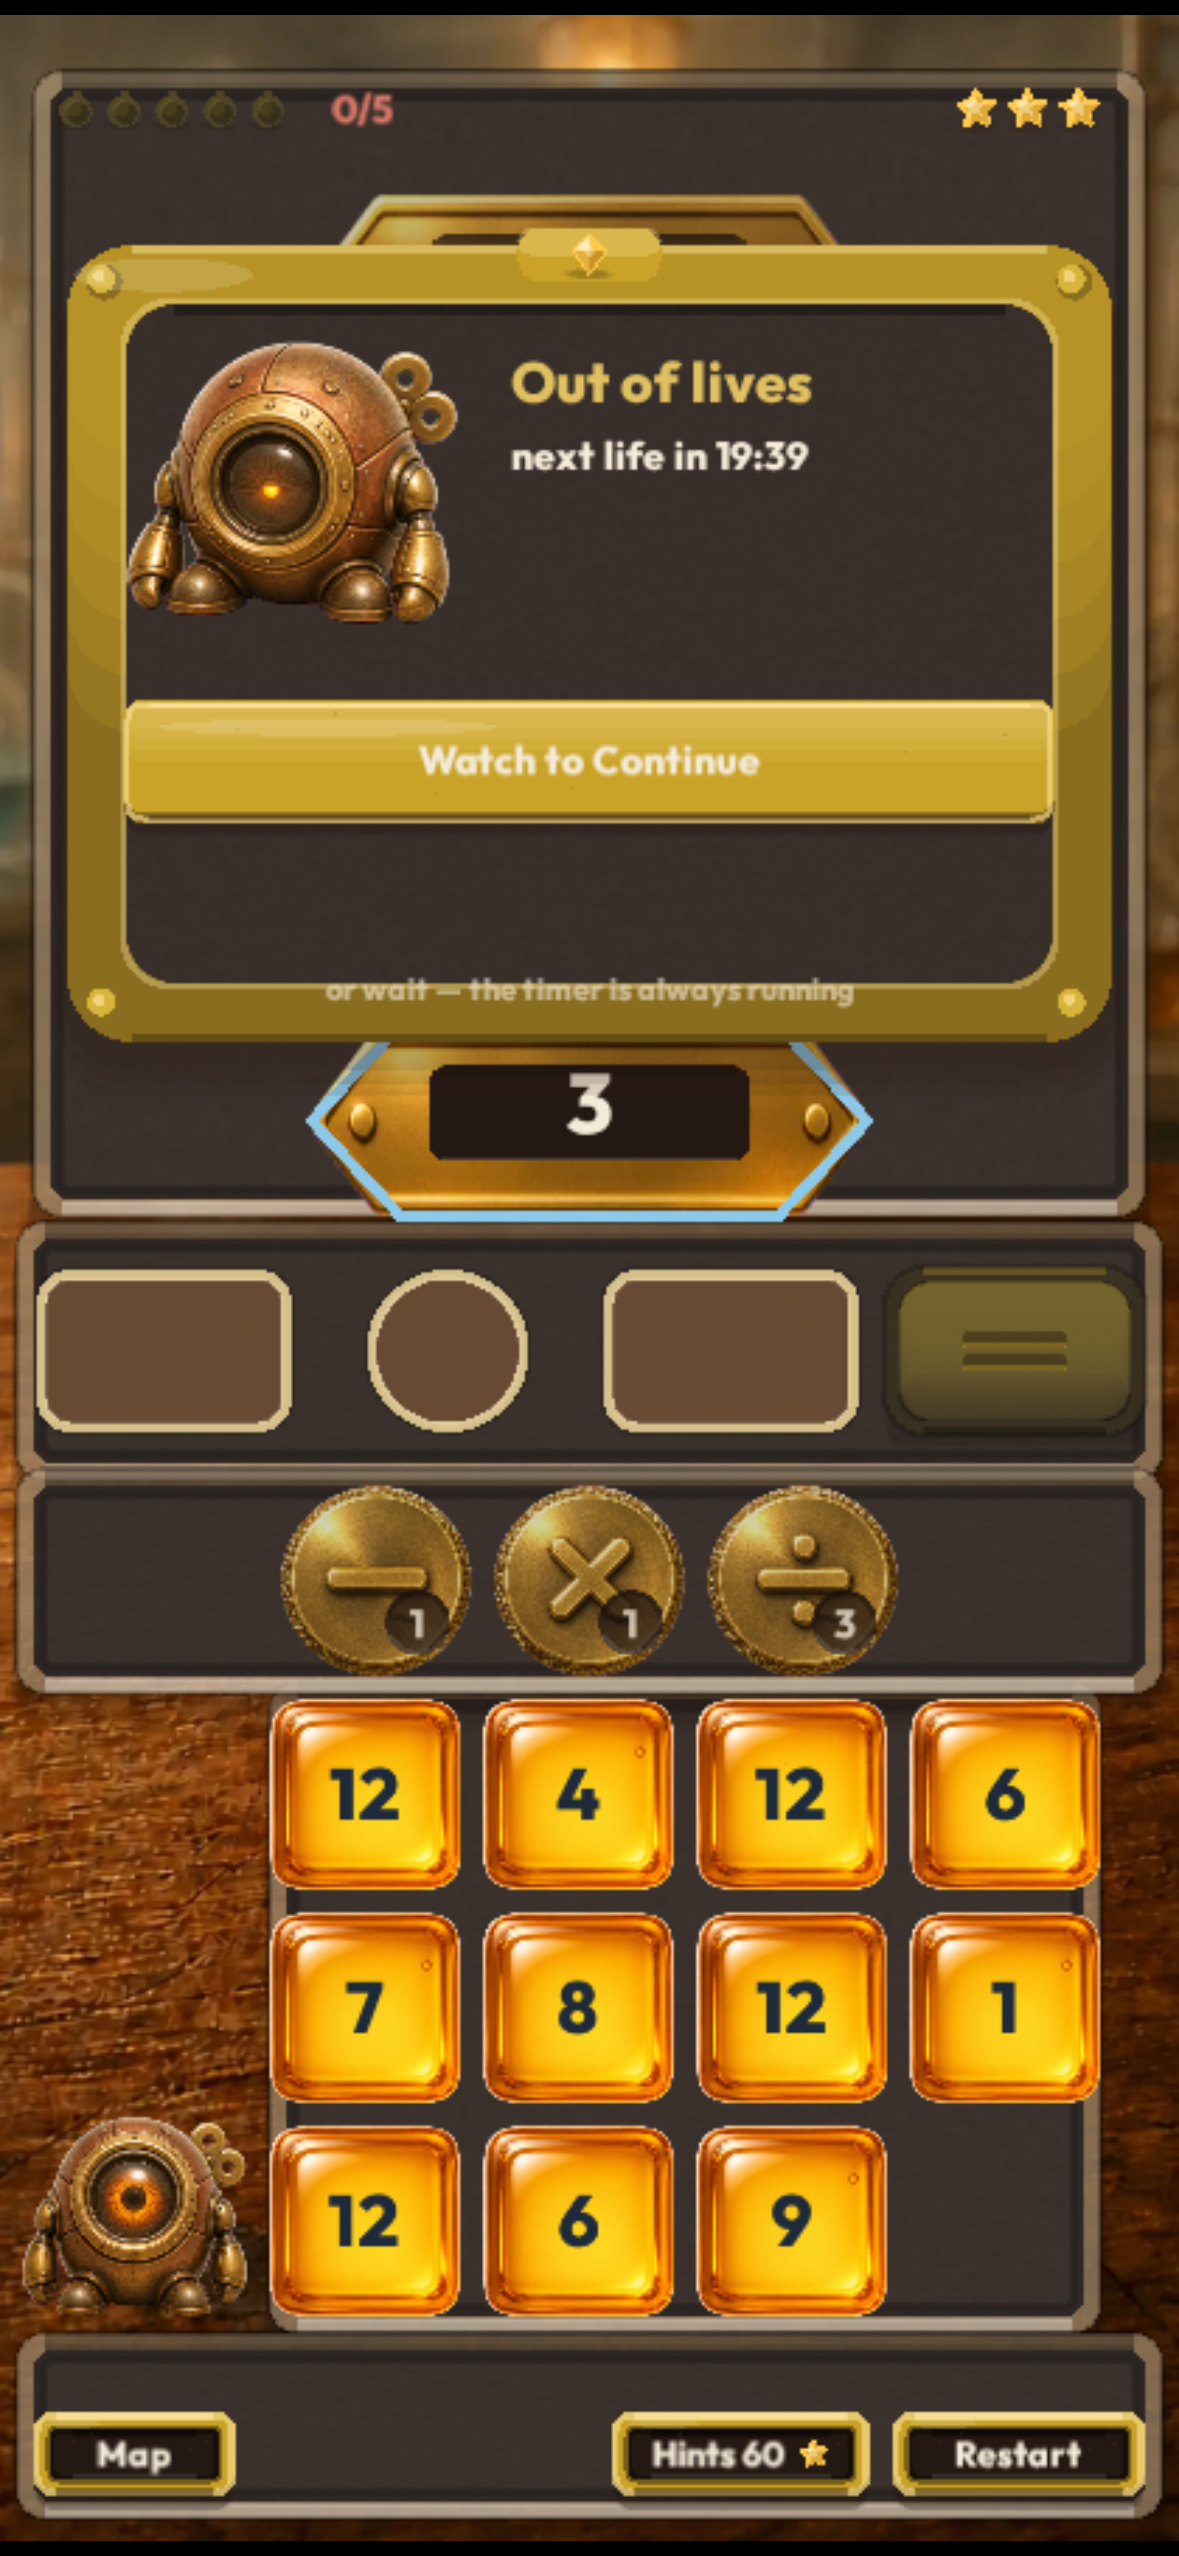
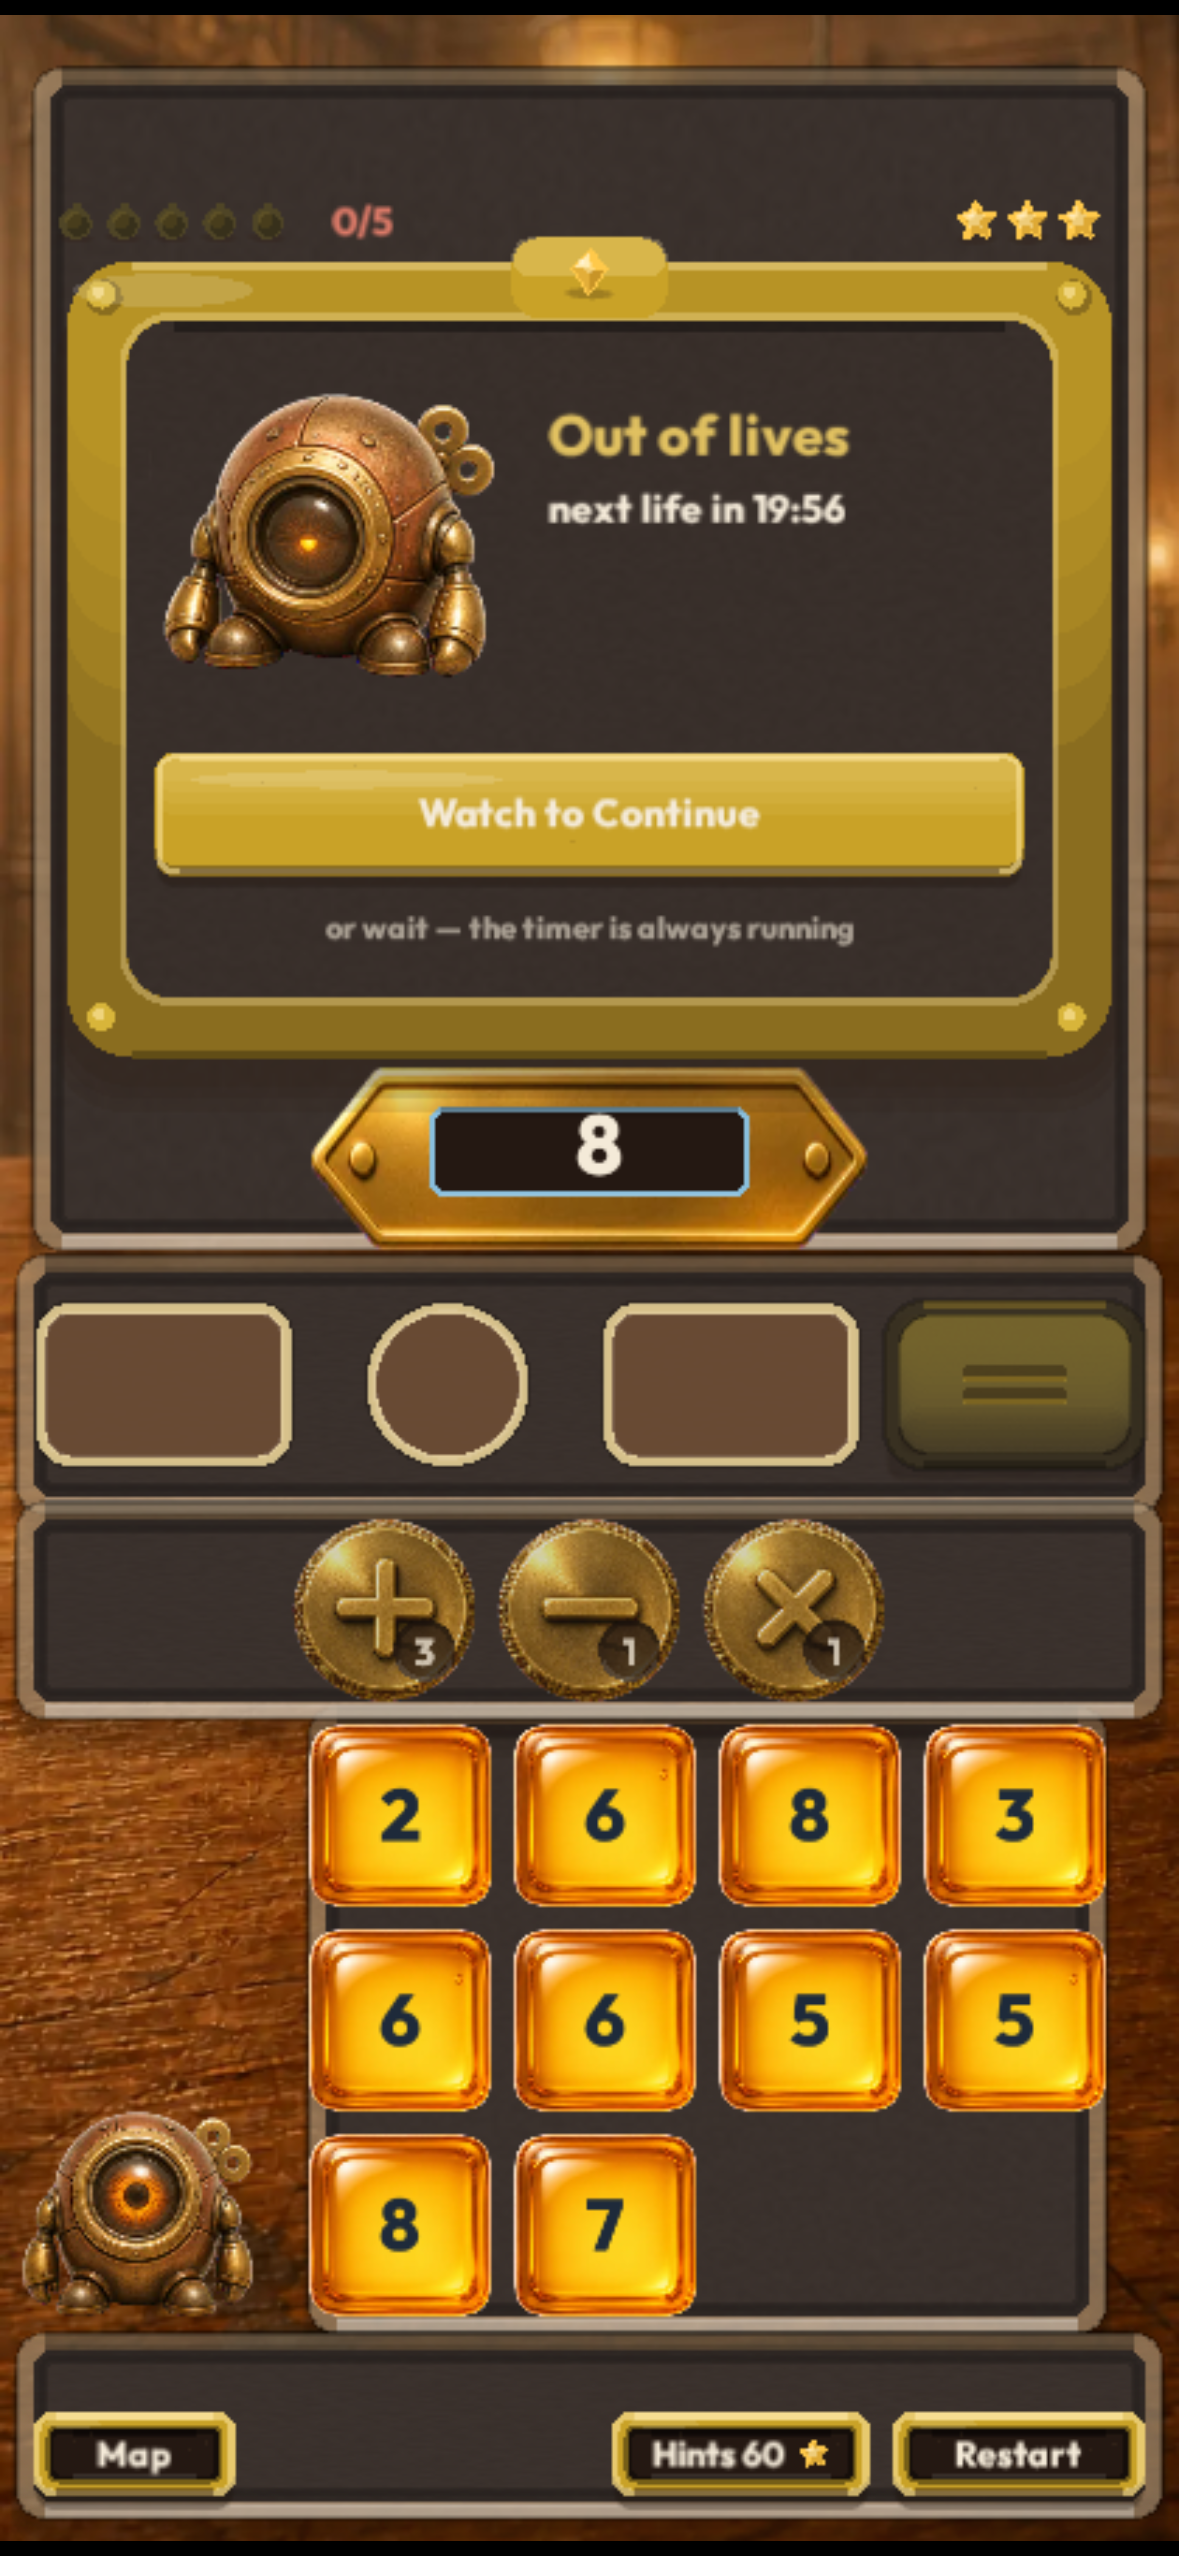
Refresh P1 review shots after rebase onto #7/#8 master.

diff --git a/docs/review/PHONE_EYE_P1_NOTES.md b/docs/review/PHONE_EYE_P1_NOTES.md
@@ -1,7 +1,13 @@
 # Phone-eye P1 notes
 
+Rebased onto `origin/master` after PR #7 (automaton motion) + PR #8 (OOL SAFE_TOP clips).
+
 - **PE-05 — `src/renderer/tokens.ts`, `src/renderer/layout.ts`:** Deepened `emptySlot` to named lighter warm-felt recess (`PALETTE.feltRecess`) with stronger brass-lit outer lip; square/circle shape coding kept. Socket, not glow.
-- **PE-04 — `src/renderer/renderer.ts`:** OOL concerned automaton seat 96->128px (aspect preserved); panel 248->284px.
+- **PE-04 — `src/renderer/renderer.ts`:** OOL concerned automaton seat **128px** (aspect preserved); panel **284px**. Conflict resolve vs #8: kept master’s SAFE_TOP / cartouche / `contentLeft`/`contentTop` interior seating; kept #6 brand-scale seat size.
 - **Map focal — `src/map/map-screen.ts`, `src/map/map-plate-presentation.test.ts`:** Durable `mapPlatePresentation` after settle. Open plate 1.10x + cool targetFrontRim + deeper seat; cleared quieter; locked alone uses DIM.
-- **Bonus PE-02 polish — `recessedPanel`:** Numeral seated on felt-well centre with slight optical lift.
-- **Out of scope:** PE-01 desk-shrink rewrite intentionally not included; stacks on PR #5 gutter seating.
+- **PE-02 — `recessedPanel`:** Prefer master’s refined Scout seating (short-glyph X nudge + milder Y lift) from landed P0/#8 stack; do not revert to #6’s coarser lift.
+- **Out of scope:** PE-01 desk-shrink rewrite intentionally not included.
+
+## Conflict notes for Scout
+- OOL is now **128px seat on #8 chrome** (deeper SAFE_TOP, wait copy in felt, cartouche air). Compare `08-ool-brand.png` vs master’s `20-ool-*.png`: face should read brand-scale, top chrome must stay unclipped.
+- Wells + map focal are #6 intent unchanged on current master art stack.
